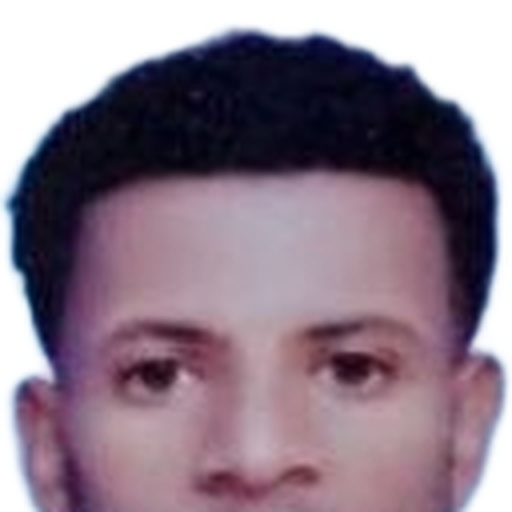
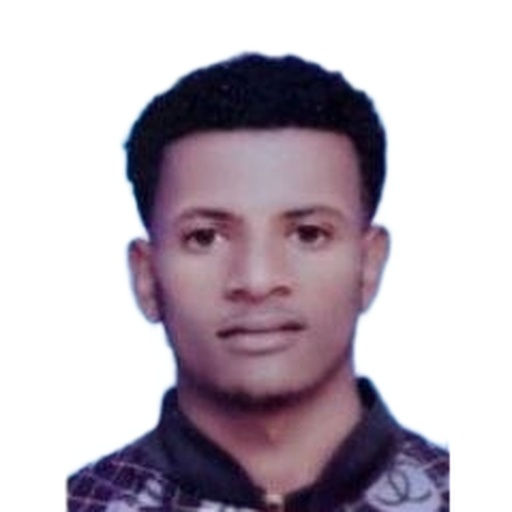
fix(players): correct framing for Ambaye A. and Abdurezak S. headshots

diff --git a/scripts/process_management_portraits.py b/scripts/process_management_portraits.py
@@ -4,7 +4,7 @@ import numpy as np
 from PIL import Image, ImageOps
 import onnxruntime as ort
 
-MODEL_PATH = "silueta.onnx"
+MODEL_PATH = os.path.join(os.path.expanduser("~"), ".cache", "silueta.onnx") if os.path.exists(os.path.join(os.path.expanduser("~"), ".cache", "silueta.onnx")) else "silueta.onnx"
 
 MANAGEMENT_PLAYERS = [
     ("management-solomon-e", "Solomon E..jpg"),
@@ -141,15 +141,29 @@ def process_single(team_folder, player_id, raw_filename):
         im = im.convert("RGB")
         orig_w, orig_h = im.size
         
-        mask = predict_mask(im)
-        
-        white_bg = Image.new("RGB", (orig_w, orig_h), (255, 255, 255))
-        white_bg.paste(im, (0, 0), mask)
-        
-        l, t, r, b = find_headshot_crop(mask, orig_w, orig_h)
-        cropped = white_bg.crop((l, t, r, b))
-        
-        final_img = cropped.resize((512, 512), Image.LANCZOS)
+        if player_id == "management-ambaye-a":
+            # Raw image is already a 600x600 studio portrait on white background
+            final_img = im.resize((512, 512), Image.LANCZOS)
+        elif player_id == "management-abdurezak-s":
+            # Raw image is already a close-up passport portrait (182x239) with blue background
+            mask = predict_mask(im)
+            white_bg = Image.new("RGB", (orig_w, orig_h), (255, 255, 255))
+            white_bg.paste(im, (0, 0), mask)
+            square_dim = orig_h
+            square_im = Image.new("RGB", (square_dim, square_dim), (255, 255, 255))
+            x_offset = (square_dim - orig_w) // 2
+            square_im.paste(white_bg, (x_offset, 0))
+            final_img = square_im.resize((512, 512), Image.LANCZOS)
+        else:
+            mask = predict_mask(im)
+            
+            white_bg = Image.new("RGB", (orig_w, orig_h), (255, 255, 255))
+            white_bg.paste(im, (0, 0), mask)
+            
+            l, t, r, b = find_headshot_crop(mask, orig_w, orig_h)
+            cropped = white_bg.crop((l, t, r, b))
+            
+            final_img = cropped.resize((512, 512), Image.LANCZOS)
         
         out_dir_pub = os.path.join("public", "uploads", "players", team_folder)
         out_dir_dist = os.path.join("dist", "uploads", "players", team_folder)
